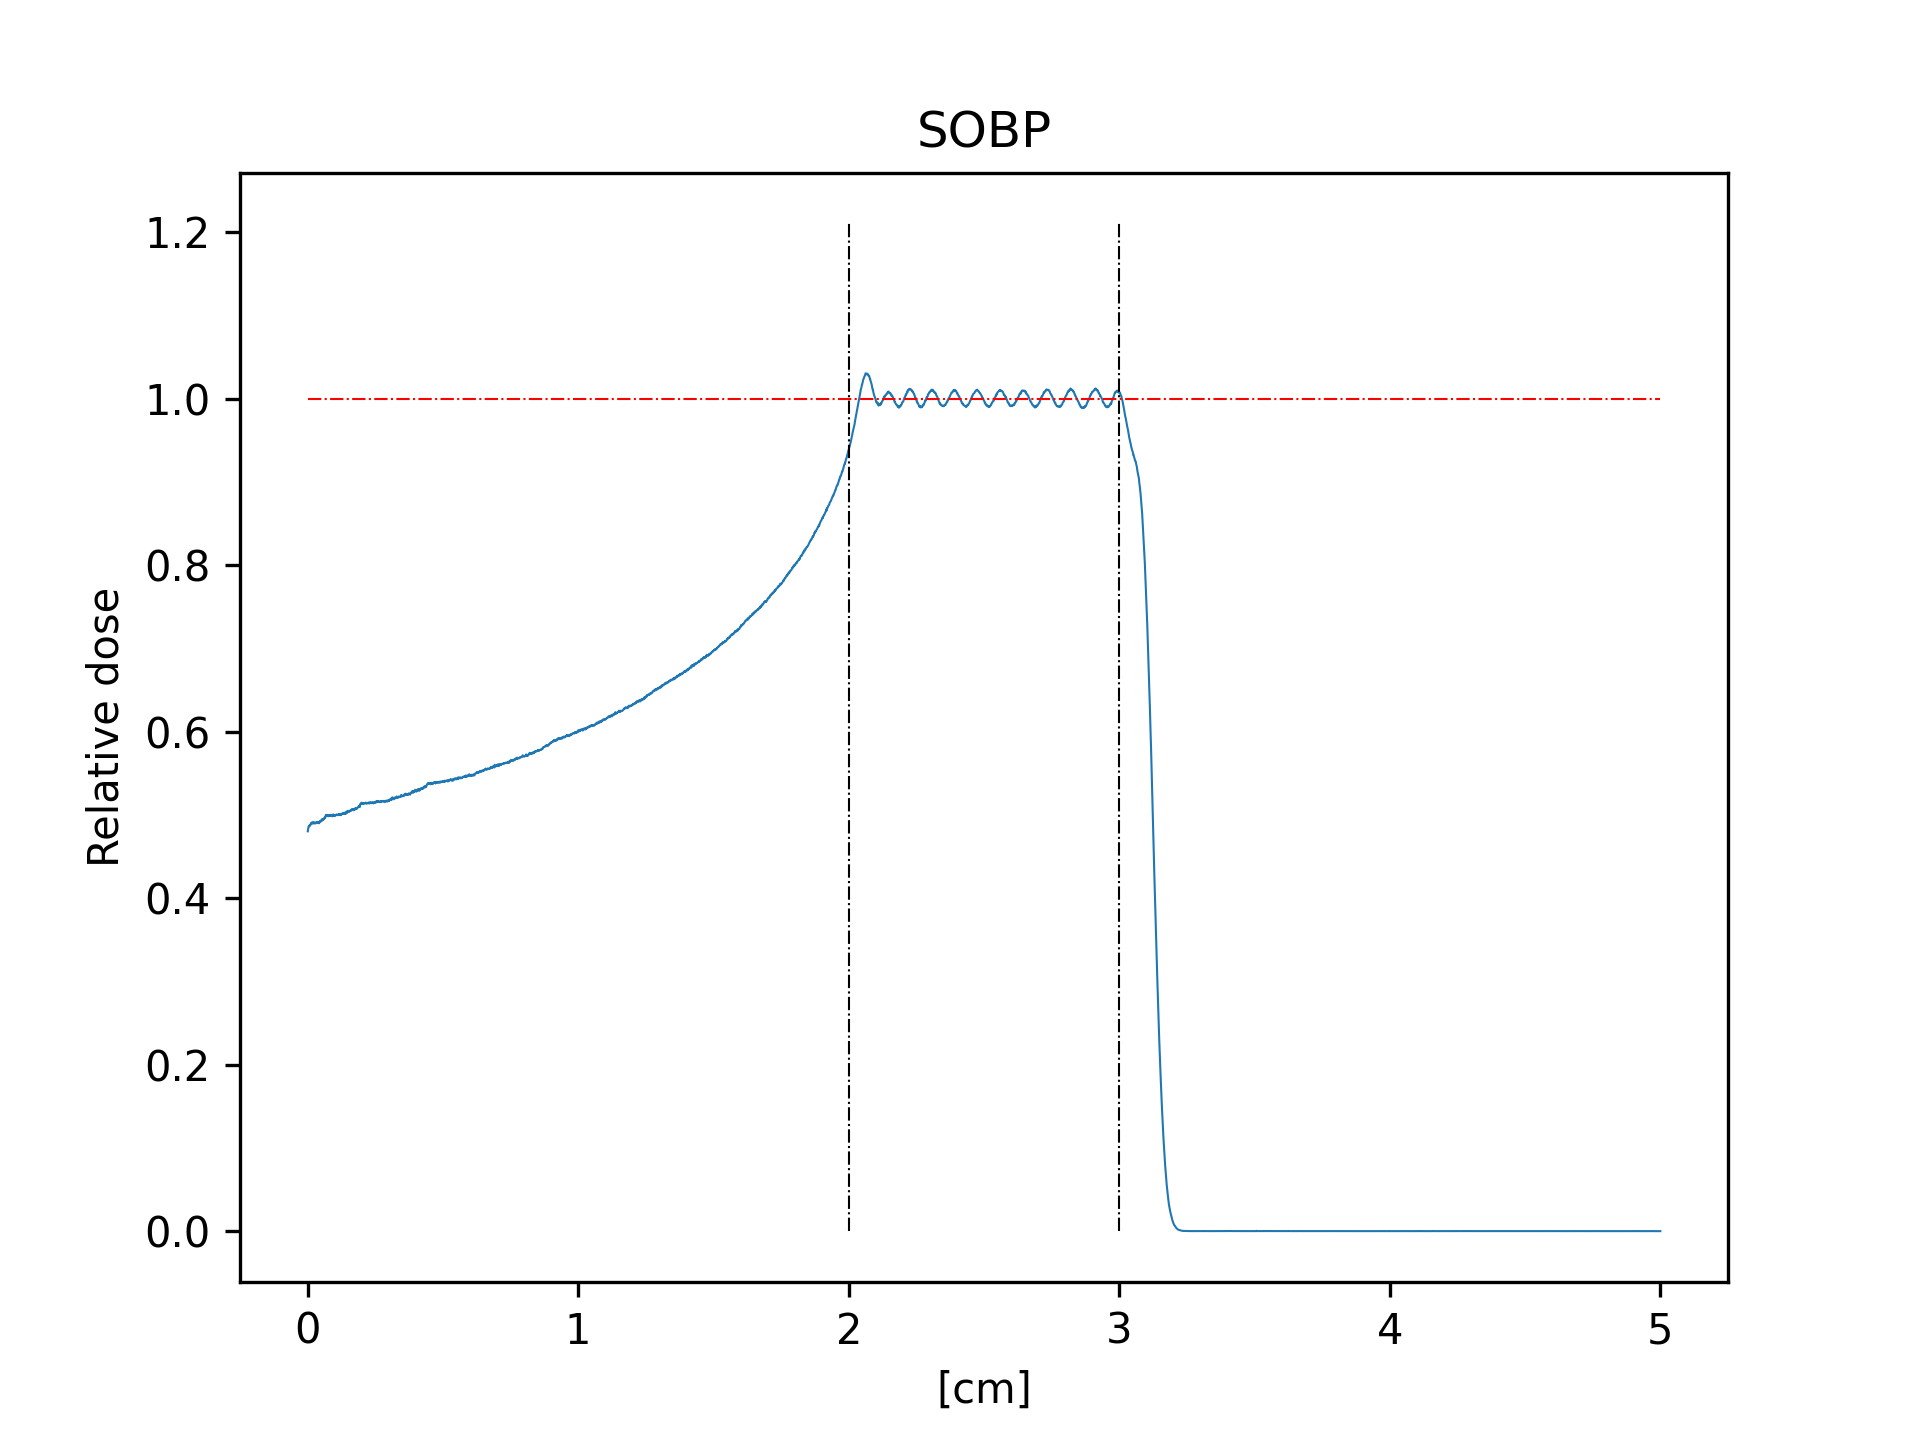
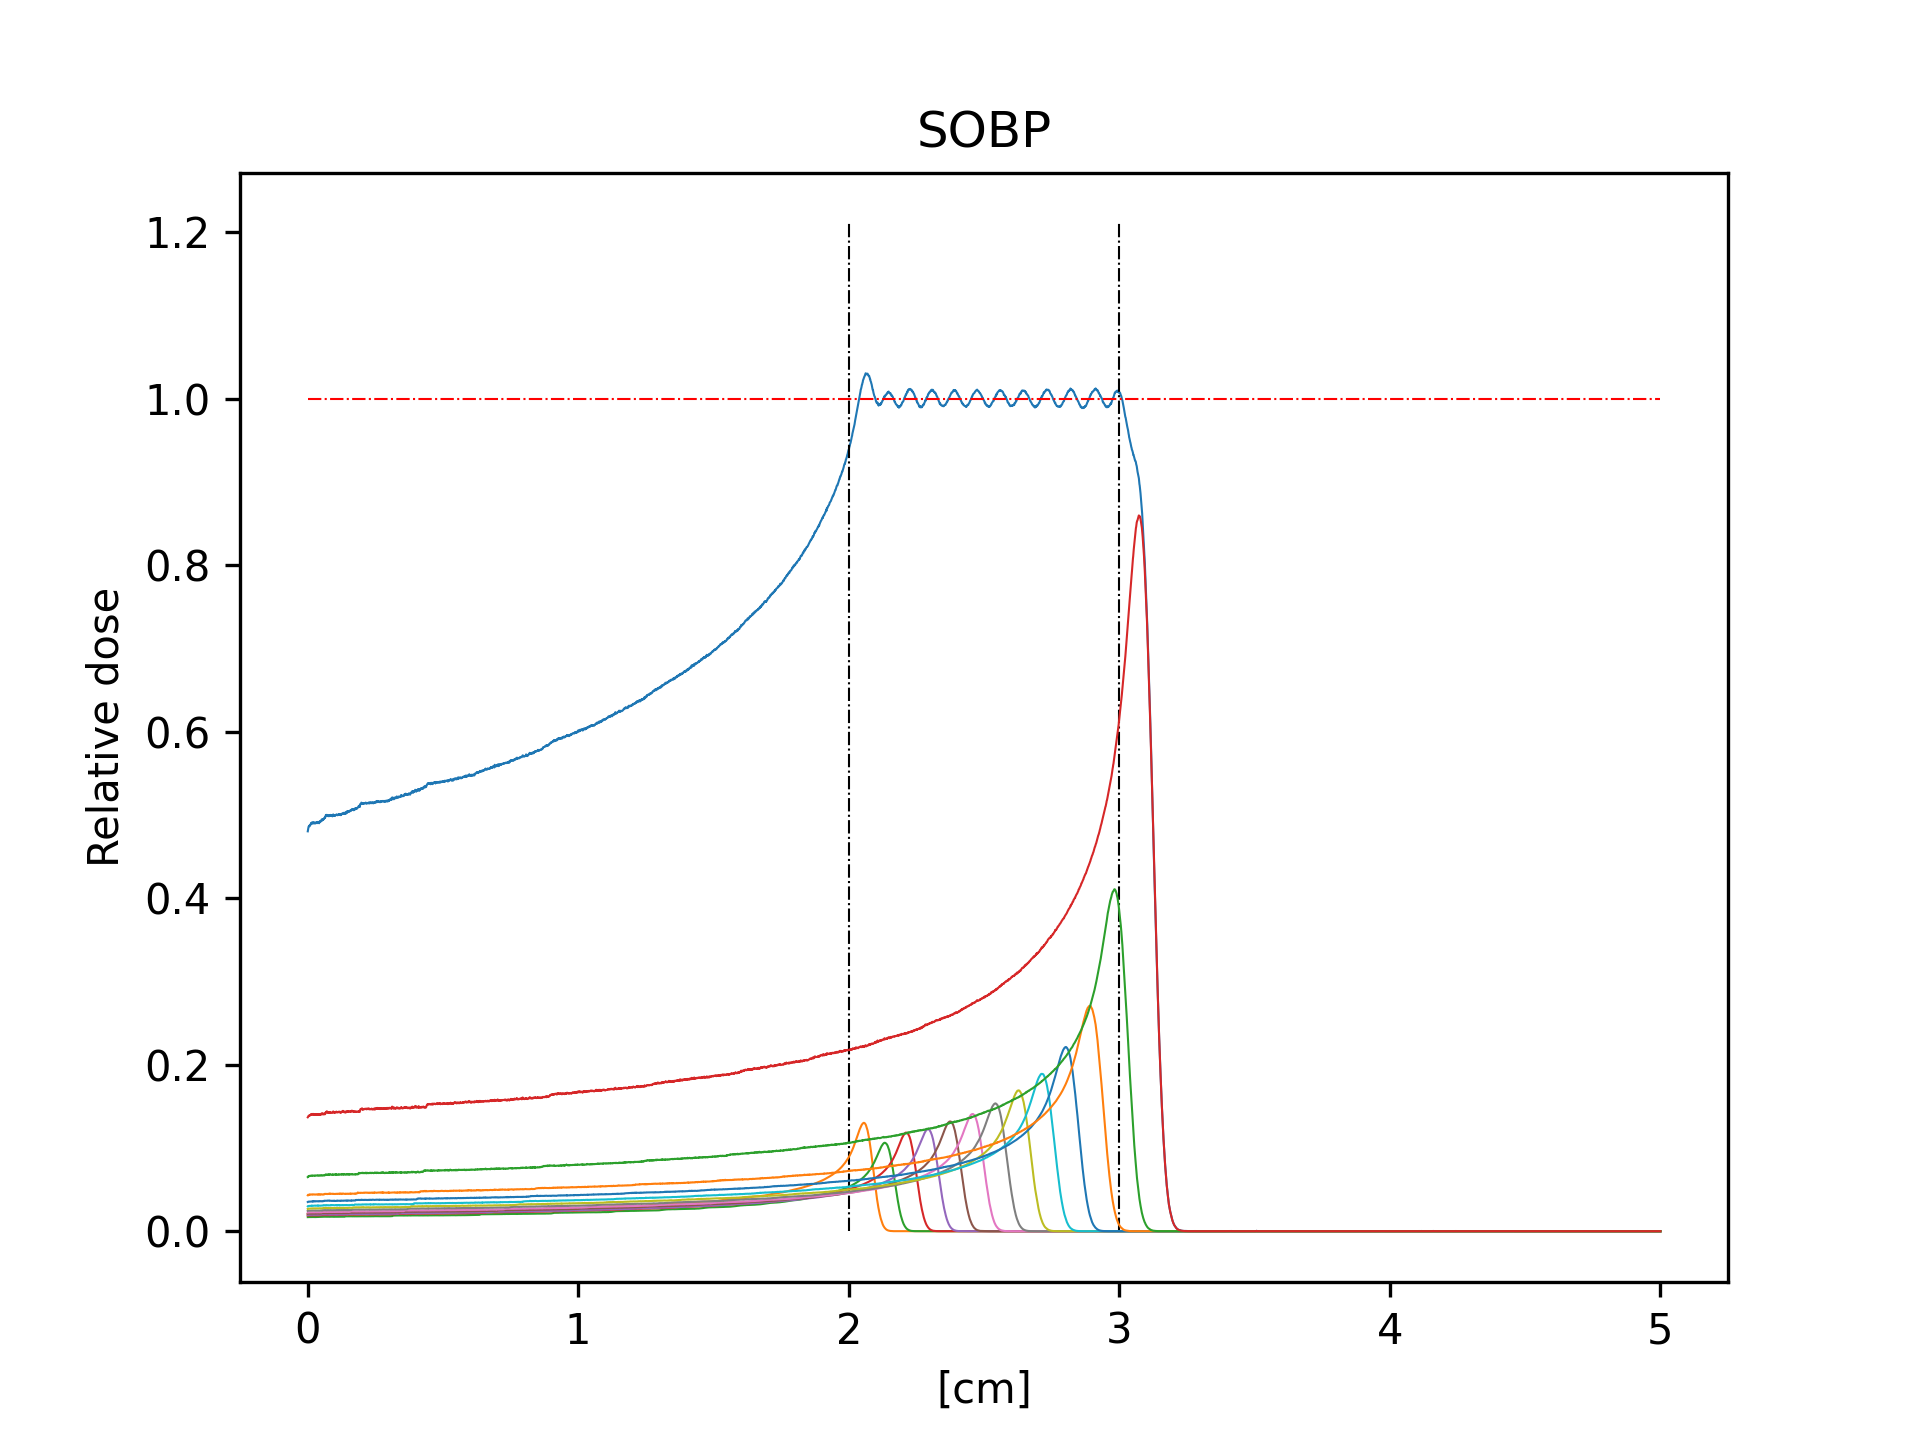
update

Changed region(s): [[0.1562, 0.7188, 0.625, 0.875], [0.5625, 0.6875, 0.5938, 0.7188]]

diff --git a/main.py b/main.py
@@ -75,9 +75,9 @@ plt.hlines(ref/ref,0,5,linestyles='dashdot',linewidth=0.5,colors="red")
 
 yy_w = np.zeros([len(energies), len(xx)])
 for i in range(len(energies)):
-    yy_w = yy[i,:]*wf[i]
-    plt.plot(xx,yy_w[:,i],lw='0.5')
-
+    yy_w[i,:] = yy[i,:]*wf[i]
+for i in range(len(energies)):
+    plt.plot(xx, yy_w[i, :], lw='0.5')
 plt.title("SOBP")
 plt.xlabel("[cm]")
 plt.ylabel("Relative dose")
@@ -93,6 +93,13 @@ sobp_2 = np.sum(yy * wf[:, np.newaxis],axis=0)
 plt.vlines(a/1e3,0,np.max(yy),linestyles='dashdot',linewidth=0.5,colors="black")
 plt.vlines(b/1e3,0,np.max(yy),linestyles='dashdot',linewidth=0.5,colors="black")
 plt.plot(xx, sobp_2, lw='0.5')
+
+yy_w_2 = np.zeros([len(energies), len(xx)])
+for i in range(len(energies)):
+    yy_w_2[i,:] = yy[i,:]*wf[i]
+for i in range(len(energies)):
+    plt.plot(xx, yy_w_2[i, :], lw='0.5')
+
 plt.title("SOBP + last weight reduced")
 plt.xlabel("[cm]")
 plt.ylabel("Relative dose")
